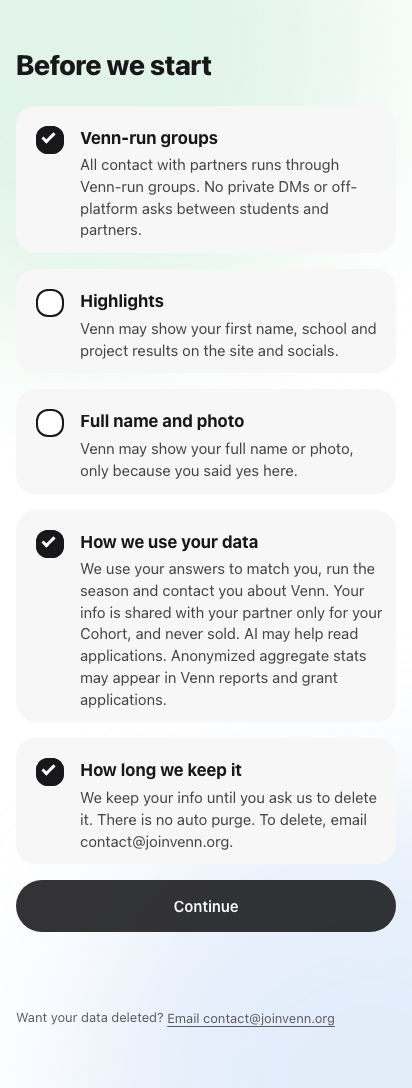
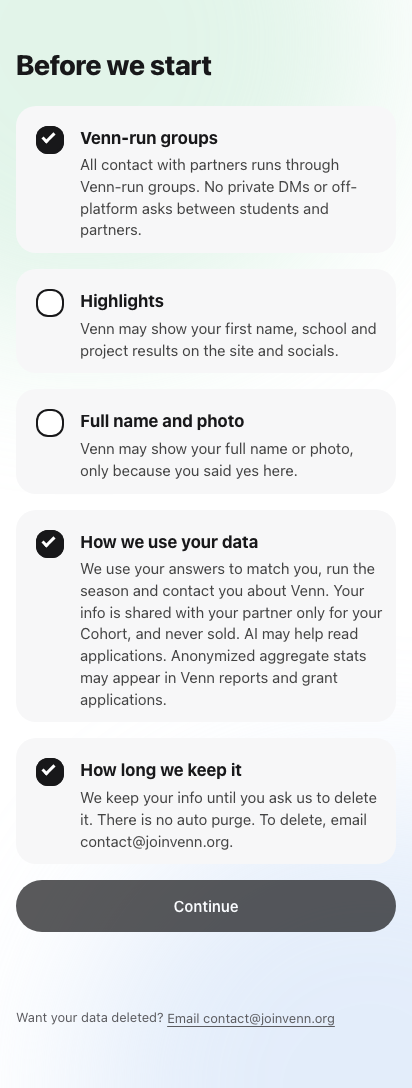
Consent review fixes: drop consentDefaults, fold application into consent_state migration, ADR 0004 minor detection
Claude-Session: https://claude.ai/code/session_015ysJSPNJrTRdDvNdjTjecm

Changed region(s): [[0.0291, 0.7812, 0.9612, 0.875]]

diff --git a/src/data/consent.test.ts b/src/data/consent.test.ts
@@ -1,6 +1,6 @@
 import test from 'node:test';
 import assert from 'node:assert/strict';
-import { CONSENT_CLAUSES, CONSENT_VERSION, consentDefaults } from './consent.ts';
+import { CONSENT_CLAUSES, CONSENT_VERSION } from './consent.ts';
 
 test('exactly the five clause ids', () => {
   assert.deepEqual(CONSENT_CLAUSES.map((c) => c.key).sort(), ['coordinator_groups', 'data_use', 'full_name_photo', 'highlights', 'retention']);
@@ -13,7 +13,6 @@ test('required flags and defaults', () => {
   for (const k of ['highlights', 'full_name_photo']) assert.equal(by[k].required, false);
   assert.equal(by.highlights.default, true);
   assert.equal(by.full_name_photo.default, false);
-  assert.deepEqual(consentDefaults(), { coordinator_groups: false, highlights: true, full_name_photo: false, data_use: false, retention: false });
 });
 
 test('copy carries the round-4 phrases', () => {

diff --git a/src/lib/portal/consent.test.ts b/src/lib/portal/consent.test.ts
@@ -1,6 +1,5 @@
 import test from 'node:test';
 import assert from 'node:assert/strict';
-import { readFileSync } from 'node:fs';
 import { isMinor } from './consent.ts';
 
 test('isMinor is true only for high_school applicants', () => {
@@ -9,9 +8,4 @@ test('isMinor is true only for high_school applicants', () => {
   assert.equal(isMinor({ level: 'other' }), false);
   assert.equal(isMinor({ level: null }), false);
   assert.equal(isMinor(null), false);
-});
-
-test('home load-error offers a Retry that re-requests /portal', () => {
-  const src = readFileSync(new URL('../../pages/portal/index.astro', import.meta.url), 'utf8');
-  assert.match(src, /action="\/portal"[^>]*><button[^>]*data-retry>Retry<\/button>/);
 });

diff --git a/src/data/consent.ts b/src/data/consent.ts
@@ -41,7 +41,3 @@ export const CONSENT_CLAUSES: ConsentClause[] = [
     default: false,
   },
 ];
-
-export function consentDefaults(): Record<string, boolean> {
-  return Object.fromEntries(CONSENT_CLAUSES.map((c) => [c.key, c.default]));
-}

diff --git a/docs/adr/0004-minor-detection.md b/docs/adr/0004-minor-detection.md
@@ -1,0 +1,5 @@
+# 0004: Minor detection uses applications.level
+
+Date: 2026-11-18. Status: accepted.
+
+Under-18 is `applications.level = 'high_school'`, read through `isMinor()` and the `minor` field of `consent_state`. A date-of-birth question would be more exact (a high-school senior can be 18), but `level` is already collected on the apply form, so it adds no new question or stored personal data. Minors continue to the parent co-sign route (#128). Revisit if #128 needs exact age.

diff --git a/docs/adr/README.md b/docs/adr/README.md
@@ -1,0 +1,6 @@
+# Decisions
+
+- [0001 Applications in Supabase](0001-applications-in-supabase.md)
+- [0002 Apply caps](0002-apply-caps.md)
+- [0003 Unsubscribe GET redirects, POST writes](0003-unsubscribe-get-redirects.md)
+- [0004 Minor detection uses applications.level](0004-minor-detection.md)
